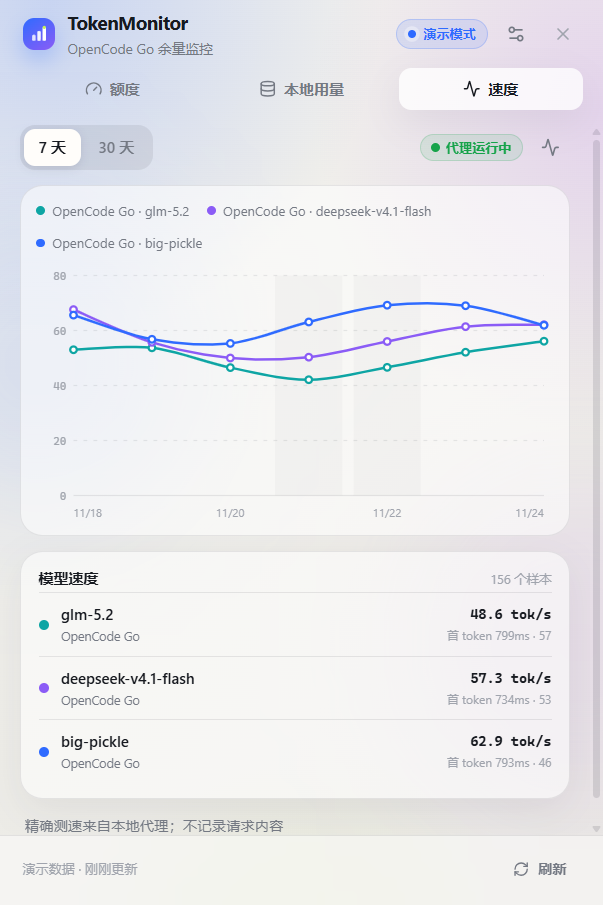
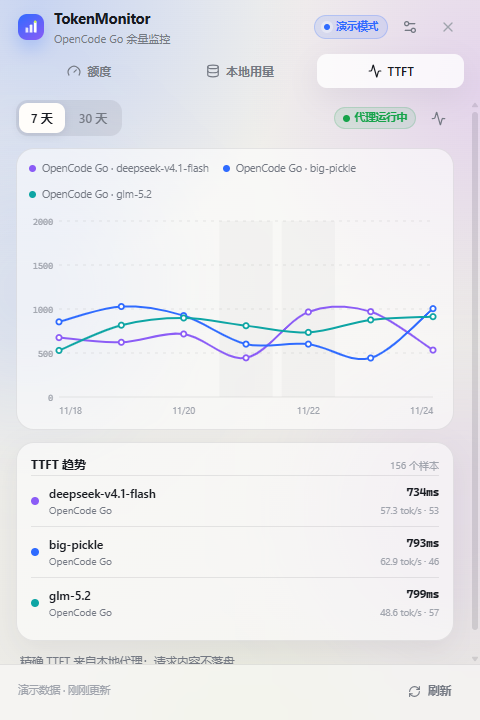
Make TTFT the primary speed metric

diff --git a/src/renderer/src/i18n.ts b/src/renderer/src/i18n.ts
@@ -6,7 +6,7 @@ const zh = {
   'app.official': '非官方工具',
   'tabs.overview': '额度',
   'tabs.local': '本地用量',
-  'tabs.speed': '速度',
+  'tabs.speed': 'TTFT',
   'tabs.settings': '设置',
   'status.normal': '正常',
   'status.near': '接近上限',
@@ -113,24 +113,24 @@ const zh = {
   'local.scanFailed': '读取本地数据库失败',
   'local.chartLabel': '每日 tokens',
   'local.other': '其他',
-  'speed.title': '模型速度',
-  'speed.subtitle': '精确测速来自本地代理；不记录请求内容',
+  'speed.title': 'TTFT 趋势',
+  'speed.subtitle': '精确 TTFT 来自本地代理；请求内容不落盘',
   'speed.7d': '7 天',
   'speed.30d': '30 天',
   'speed.noData': '还没有测速样本',
-  'speed.noDataHint': '开启精确测速后，OpenCode 的请求会经过本机代理，按模型记录 tok/s 与首 token 延迟。',
+  'speed.noDataHint': '开启精确测速后，OpenCode 的请求会经过本机代理，按模型记录 TTFT；有 usage 时同时记录 tok/s。',
   'speed.disabled': '精确测速未开启',
-  'speed.disabledHint': '在设置中开启，并按提示把 OpenCode 的 Go Provider 指向本机代理。',
+  'speed.disabledHint': '在设置中开启，并按提示把 OpenCode 的 Go Provider 指向本机代理，即可记录 TTFT。',
   'speed.setup': '去设置',
   'speed.waiting': '代理已开启，等待 OpenCode 请求',
-  'speed.waitingHint': '先在 OpenCode 里发一次请求，样本会出现在这里。',
+  'speed.waitingHint': '先在 OpenCode 里发一次请求，TTFT 会出现在这里。',
   'speed.samples': '样本',
-  'speed.approx': '部分 token 数来自本地估算',
-  'speed.ttft': '首 token',
+  'speed.approx': '部分样本缺少上游 token 数（TTFT 不受影响）',
+  'speed.ttft': 'TTFT',
   'speed.tps': 'tok/s',
   'speed.rangeSummary': '{n} 个样本',
   'speed.model': '模型',
-  'speed.noUsage': '上游未返回 usage，无法计算精确 tok/s',
+  'speed.noUsage': '上游未返回 usage；TTFT 仍已记录，tok/s 不可用',
   'speed.error': '测速代理异常',
   'onboarding.title': '连接 OpenCode Go',
   'onboarding.sub': 'TokenMonitor 读取套餐余量、本地 token 趋势，并可选测量模型速度。所有数据留在本机。',
@@ -270,7 +270,7 @@ const en: Record<keyof typeof zh, string> = {
   'app.official': 'Unofficial tool',
   'tabs.overview': 'Quota',
   'tabs.local': 'Local usage',
-  'tabs.speed': 'Speed',
+  'tabs.speed': 'TTFT',
   'tabs.settings': 'Settings',
   'status.normal': 'Normal',
   'status.near': 'Near limit',
@@ -377,24 +377,24 @@ const en: Record<keyof typeof zh, string> = {
   'local.scanFailed': 'Could not read the local database',
   'local.chartLabel': 'tokens per day',
   'local.other': 'Other',
-  'speed.title': 'Model speed',
-  'speed.subtitle': 'Measured by the local proxy; request content is never stored',
+  'speed.title': 'TTFT trend',
+  'speed.subtitle': 'Exact TTFT from the local proxy; request content is never stored',
   'speed.7d': '7 days',
   'speed.30d': '30 days',
   'speed.noData': 'No speed samples yet',
-  'speed.noDataHint': 'When exact measurement is enabled, OpenCode requests pass through the local proxy and tok/s plus TTFT are recorded per model.',
+  'speed.noDataHint': 'When exact measurement is enabled, OpenCode requests pass through the local proxy and TTFT is recorded per model; tok/s is added when usage is available.',
   'speed.disabled': 'Exact measurement is off',
-  'speed.disabledHint': 'Enable it in settings and point the OpenCode Go provider baseURL at the local proxy.',
+  'speed.disabledHint': 'Enable it in settings and point the OpenCode Go provider baseURL at the local proxy to record TTFT.',
   'speed.setup': 'Open settings',
   'speed.waiting': 'Proxy is running, waiting for OpenCode',
-  'speed.waitingHint': 'Send a request from OpenCode and samples will appear here.',
+  'speed.waitingHint': 'Send a request from OpenCode and TTFT will appear here.',
   'speed.samples': 'Samples',
-  'speed.approx': 'Some token counts are estimated locally',
+  'speed.approx': 'Some samples lack upstream token counts (TTFT is unaffected)',
   'speed.ttft': 'TTFT',
   'speed.tps': 'tok/s',
   'speed.rangeSummary': '{n} samples',
   'speed.model': 'Model',
-  'speed.noUsage': 'Upstream did not return usage; exact tok/s is unavailable',
+  'speed.noUsage': 'Upstream did not return usage; TTFT is still recorded and tok/s is unavailable',
   'speed.error': 'Speed proxy error',
   'onboarding.title': 'Connect OpenCode Go',
   'onboarding.sub': 'TokenMonitor reads plan usage and local token trends, with optional model speed measurement. Everything stays on this device.',

diff --git a/src/renderer/src/views/Speed.tsx b/src/renderer/src/views/Speed.tsx
@@ -55,21 +55,33 @@ export function Speed({
           points,
           samples: sampleCount,
           avgTps: points.reduce((sum, point) => sum + point.tokensPerSecond * point.samples, 0) / weight,
-          avgTtft:
-            points.reduce((sum, point) => sum + (point.ttftMs ?? 0) * point.samples, 0) / weight,
+          avgTtft: (() => {
+            const ttftPoints = points.filter(
+              (point): point is SpeedPoint & { ttftMs: number } => point.ttftMs !== null,
+            );
+            const ttftSamples = ttftPoints.reduce((sum, point) => sum + point.samples, 0);
+            return ttftSamples > 0
+              ? ttftPoints.reduce((sum, point) => sum + point.ttftMs * point.samples, 0) / ttftSamples
+              : 0;
+          })(),
         };
       })
-      .sort((a, b) => b.samples - a.samples || a.model.localeCompare(b.model));
+      .sort((a, b) => (a.avgTtft || Number.MAX_SAFE_INTEGER) - (b.avgTtft || Number.MAX_SAFE_INTEGER) || b.samples - a.samples);
   }, [series]);
 
   const providerLabel = (provider: string) =>
     provider === 'opencode-go' || provider === 'opencode' ? 'OpenCode Go' : provider;
-  const chartSeries: LineSeries[] = models.slice(0, 6).map((model) => ({
-    key: model.key,
-    label: `${providerLabel(model.provider)} · ${model.model}`,
-    color: model.color,
-    points: model.points.map((point) => ({ day: point.day, value: point.tokensPerSecond })),
-  }));
+  const chartSeries: LineSeries[] = models
+    .slice(0, 6)
+    .map((model) => ({
+      key: model.key,
+      label: `${providerLabel(model.provider)} · ${model.model}`,
+      color: model.color,
+      points: model.points
+        .filter((point): point is SpeedPoint & { ttftMs: number } => point.ttftMs !== null)
+        .map((point) => ({ day: point.day, value: point.ttftMs })),
+    }))
+    .filter((series) => series.points.length > 0);
 
   const hasSamples = Boolean(series && series.totalSamples > 0);
   const enabled = Boolean(series?.enabled ?? state.speed.enabled);
@@ -127,7 +139,7 @@ export function Speed({
                 </span>
               ))}
             </div>
-            <LineChart series={chartSeries} language={language} height={210} unit=" tok/s" />
+            <LineChart series={chartSeries} language={language} height={210} unit=" ms" digits={0} />
           </div>
 
           <div className="soft-card" style={{ padding: '12px 14px' }}>
@@ -145,9 +157,12 @@ export function Speed({
                   <span>{providerLabel(model.provider)}</span>
                 </div>
                 <div style={{ textAlign: 'right' }}>
-                  <div className="model-tokens mono">{model.avgTps.toFixed(1)} tok/s</div>
+                  <div className="model-tokens mono">
+                    {model.avgTtft > 0 ? formatDuration(model.avgTtft) : '—'}
+                  </div>
                   <div className="faint" style={{ fontSize: 9.5, marginTop: 1 }}>
-                    {t('speed.ttft')} {formatDuration(model.avgTtft)} · {model.samples}
+                    {model.avgTps > 0 ? `${model.avgTps.toFixed(1)} tok/s · ` : ''}
+                    {model.samples}
                   </div>
                 </div>
               </div>

diff --git a/tests/speedProxy.test.ts b/tests/speedProxy.test.ts
@@ -74,4 +74,44 @@ describe('SpeedProxyService', () => {
     expect(series[0].tokensPerSecond).toBeGreaterThan(0);
     expect(settings.get().speed.configApplied).toBe(true);
   });
+
+  it('records TTFT even when upstream usage is absent', async () => {
+    const dir = mkdtempSync(join(tmpdir(), 'tokenmonitor-proxy-'));
+    cleanups.push(() => rmSync(dir, { recursive: true, force: true }));
+
+    const upstream = createServer((req, res) => {
+      res.writeHead(200, { 'content-type': 'text/event-stream', 'cache-control': 'no-cache' });
+      res.write(`data: ${JSON.stringify({ choices: [{ delta: { content: 'hello' } }] })}\n\n`);
+      setTimeout(() => res.end(), 30);
+    });
+    const upstreamPort = await listen(upstream);
+    cleanups.push(() => new Promise<void>((resolve) => upstream.close(() => resolve())));
+
+    const settings = new SettingsStore(dir);
+    settings.setSpeedConfig({
+      enabled: true,
+      upstreamBase: `http://127.0.0.1:${upstreamPort}/zen/go/v1`,
+      configApplied: false,
+    });
+    const logger = new Logger(dir);
+    const store = new SpeedStore(dir, logger);
+    const proxy = new SpeedProxyService(dir, settings, store, logger, false);
+    await proxy.start();
+    cleanups.push(() => proxy.stop());
+
+    const info = proxy.getConfigInfo();
+    const response = await fetch(`${info.proxyUrl}/chat/completions`, {
+      method: 'POST',
+      headers: { 'content-type': 'application/json' },
+      body: JSON.stringify({ model: 'ttft-model', stream: true }),
+    });
+    await response.text();
+    await new Promise((resolve) => setTimeout(resolve, 120));
+
+    const series = store.getSeries('7d');
+    expect(series).toHaveLength(1);
+    expect(series[0].model).toBe('ttft-model');
+    expect(series[0].ttftMs).toBeGreaterThan(0);
+    expect(series[0].tokensPerSecond).toBe(0);
+  });
 });

diff --git a/src/main/services/speedProxy.ts b/src/main/services/speedProxy.ts
@@ -428,7 +428,9 @@ export class SpeedProxyService extends EventEmitter {
     state: ParserState,
     requestModel: string | null,
   ): void {
-    if (state.outputTokens <= 0) return;
+    // TTFT does not require upstream usage. Keep the sample whenever a first content
+    // chunk was observed; output token fields simply stay unknown when usage is absent.
+    if (state.outputTokens <= 0 && firstChunkAt === null) return;
     const first = firstChunkAt ?? headersAt;
     const last = lastChunkAt ?? headersAt;
     const durationMs = Math.max(1, last - first);
@@ -441,10 +443,12 @@ export class SpeedProxyService extends EventEmitter {
       durationMs,
       outputTokens: state.outputTokens,
       inputTokens: state.inputTokens,
-      tokenSource: 'upstream',
+      tokenSource: state.outputTokens > 0 ? 'upstream' : 'unknown',
     };
     this.store.append(record);
-    this.logger.info(`Speed sample: ${record.model} ${record.outputTokens} tokens in ${durationMs}ms.`);
+    this.logger.info(
+      `Speed sample: ${record.model} ${record.outputTokens > 0 ? `${record.outputTokens} tokens` : 'TTFT-only'} in ${durationMs}ms (TTFT ${ttftMs}ms).`,
+    );
     this.emit('sample', record);
     this.emit('status');
   }

diff --git a/src/main/services/speedStore.ts b/src/main/services/speedStore.ts
@@ -76,7 +76,7 @@ export class SpeedStore {
     >();
 
     for (const record of this.readSince(cutoff)) {
-      if (record.outputTokens <= 0 || record.durationMs <= 0) continue;
+      if (record.durationMs <= 0 && record.outputTokens <= 0) continue;
       const day = localDayKey(record.ts);
       const key = `${day}\u0000${record.provider}\u0000${record.model}`;
       const group = groups.get(key) ?? {
@@ -106,7 +106,8 @@ export class SpeedStore {
           day: group.day,
           provider: group.provider,
           model: group.model,
-          tokensPerSecond: Math.round((group.outputTokens / (group.durationMs / 1000)) * 10) / 10,
+          tokensPerSecond:
+            group.outputTokens > 0 ? Math.round((group.outputTokens / (group.durationMs / 1000)) * 10) / 10 : 0,
           ttftMs: Math.round(group.ttftMs / group.samples),
           samples: group.samples,
           tokenSource,

diff --git a/src/renderer/src/components/LineChart.tsx b/src/renderer/src/components/LineChart.tsx
@@ -44,12 +44,14 @@ export function LineChart({
   language,
   yMax: fixedYMax,
   unit = '',
+  digits = 1,
 }: {
   series: LineSeries[];
   height?: number;
   language: Language;
   yMax?: number;
   unit?: string;
+  digits?: number;
 }) {
   const containerRef = useRef<HTMLDivElement>(null);
   const [width, setWidth] = useState(420);
@@ -194,7 +196,7 @@ export function LineChart({
                 <span style={{ overflow: 'hidden', textOverflow: 'ellipsis', whiteSpace: 'nowrap' }}>{item.label}</span>
               </span>
               <span className="mono" style={{ fontWeight: 650, whiteSpace: 'nowrap' }}>
-                {point.value.toFixed(1)}
+                {point.value.toFixed(digits)}
                 {unit}
               </span>
             </div>

diff --git a/src/main/providers/extra/codex.ts b/src/main/providers/extra/codex.ts
@@ -38,7 +38,7 @@ async function fetchCodexResetCredits(
   const headers: Record<string, string> = {
     Authorization: `Bearer ${credential.value}`,
     Accept: 'application/json',
-    'User-Agent': 'TokenMonitor/0.2.1 Codex',
+    'User-Agent': 'TokenMonitor/0.2.2 Codex',
     'OpenAI-Beta': 'codex-1',
     originator: 'Codex Desktop',
   };
@@ -84,7 +84,7 @@ export async function fetchCodexSnapshot(
   const headers: Record<string, string> = {
     Authorization: `Bearer ${credential.value}`,
     Accept: 'application/json',
-    'User-Agent': 'TokenMonitor/0.2.1 Codex',
+    'User-Agent': 'TokenMonitor/0.2.2 Codex',
   };
   if (credential.accountId) headers['ChatGPT-Account-Id'] = credential.accountId;
 

diff --git a/src/main/services/serviceStatus.ts b/src/main/services/serviceStatus.ts
@@ -122,7 +122,7 @@ export class ServiceStatusService extends EventEmitter {
         try {
           const response = await this.fetchImpl(page.url, {
             method: 'GET',
-            headers: { Accept: 'application/json', 'User-Agent': 'TokenMonitor/0.2.1' },
+            headers: { Accept: 'application/json', 'User-Agent': 'TokenMonitor/0.2.2' },
             signal: AbortSignal.timeout(12_000),
             cache: 'no-store',
           });

diff --git a/src/main/providers/extra/cursor.ts b/src/main/providers/extra/cursor.ts
@@ -23,7 +23,7 @@ export async function fetchCursorSnapshot(
         Cookie: credential.value,
         Origin: 'https://cursor.com',
         Referer: 'https://cursor.com/dashboard',
-        'User-Agent': 'TokenMonitor/0.2.1 Cursor',
+        'User-Agent': 'TokenMonitor/0.2.2 Cursor',
       },
       signal: AbortSignal.timeout(20_000),
       cache: 'no-store',

diff --git a/src/main/providers/extra/zai.ts b/src/main/providers/extra/zai.ts
@@ -66,7 +66,7 @@ export async function fetchZaiSnapshot(
   const headers: Record<string, string> = {
     Authorization: `Bearer ${credential.value}`,
     Accept: 'application/json',
-    'User-Agent': 'TokenMonitor/0.2.1',
+    'User-Agent': 'TokenMonitor/0.2.2',
   };
   if (team) {
     headers['Bigmodel-Organization'] = credential.organizationId!;

diff --git a/src/main/providers/opencodeGo/api.ts b/src/main/providers/opencodeGo/api.ts
@@ -136,7 +136,7 @@ export class OpenCodeGoUsageApi {
     const headers: Record<string, string> = {
       Authorization: `Bearer ${apiKey}`,
       Accept: 'application/json',
-      'User-Agent': 'TokenMonitor/0.2.1',
+      'User-Agent': 'TokenMonitor/0.2.2',
     };
     if (orgId.trim()) headers['x-opencode-org-id'] = orgId.trim();
 

diff --git a/src/shared/types.ts b/src/shared/types.ts
@@ -1,5 +1,5 @@
 export const APP_NAME = 'TokenMonitor';
-export const APP_VERSION = '0.2.1';
+export const APP_VERSION = '0.2.2';
 export const QUOTA_API_URL = 'https://opencode.ai/zen/go/v1/usage';
 
 export type QuotaWindowId = 'rolling' | 'weekly' | 'monthly';
